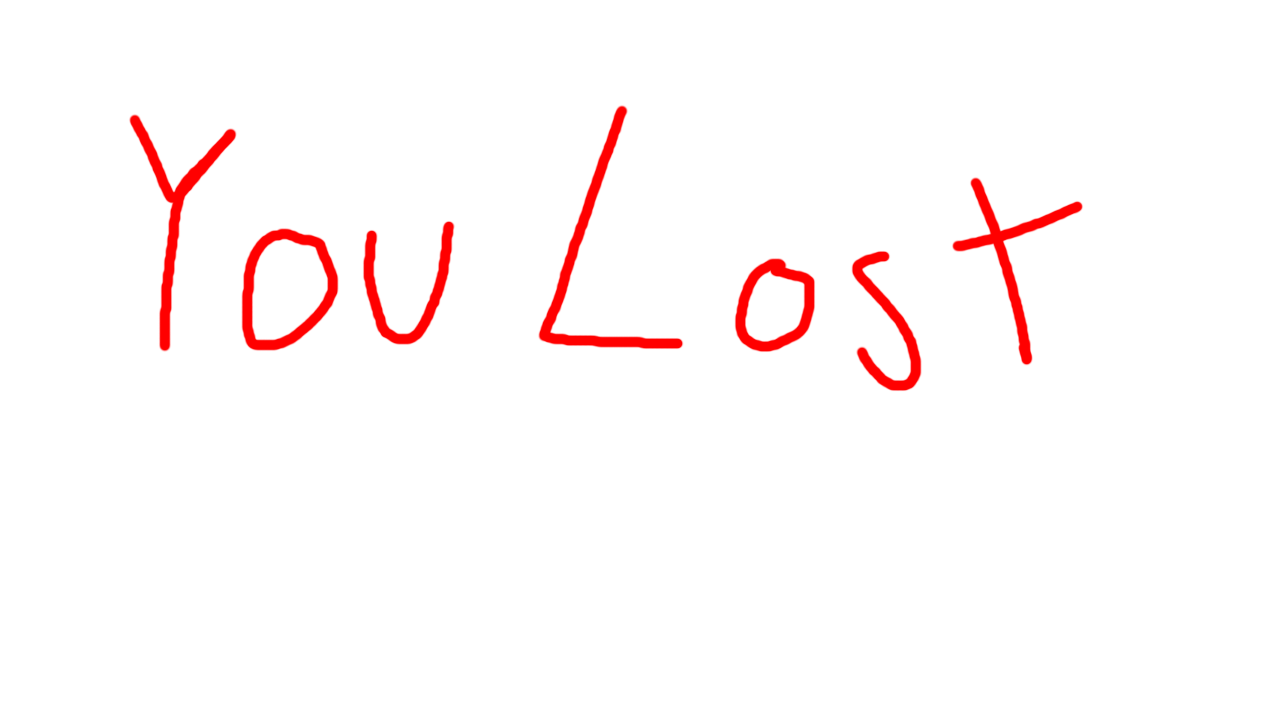
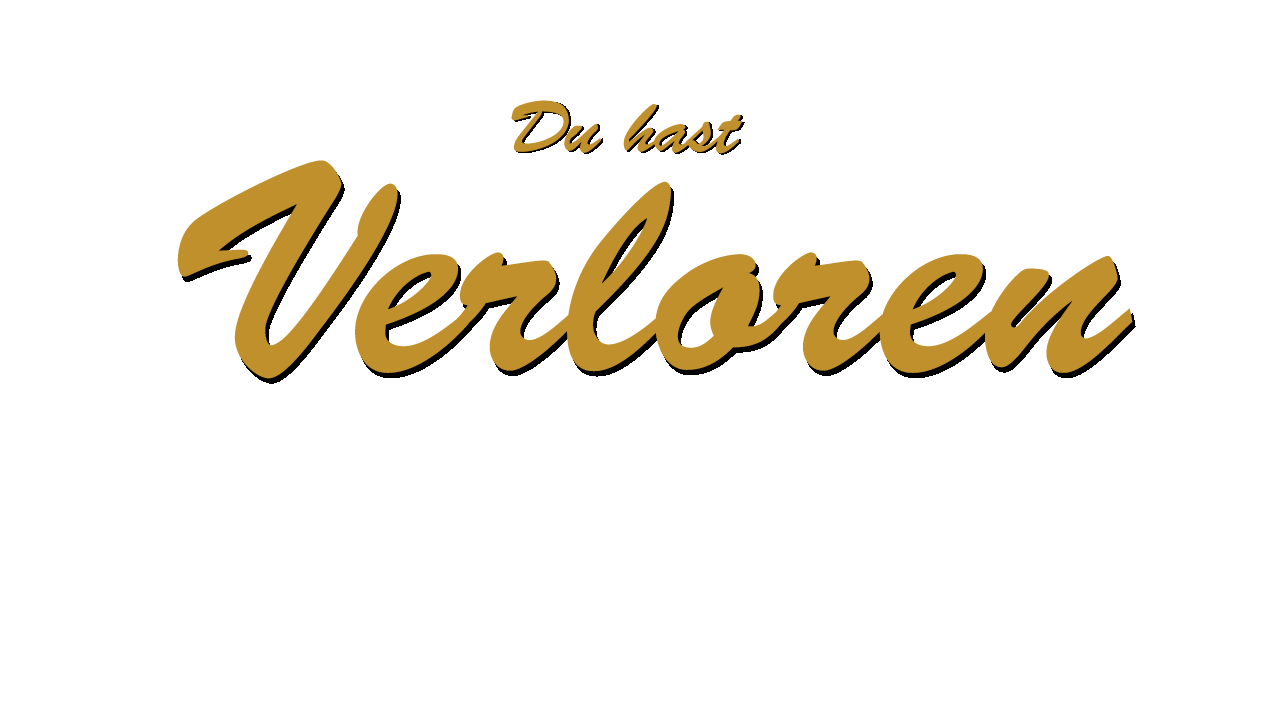
Änderung des Win Loose bildes + einbindung

Changed region(s): [[0.0938, 0.1528, 0.9062, 0.55], [0.375, 0.1222, 0.5938, 0.2444]]

diff --git a/exmatrikulatortd/core/src/main/java/de/diegrafen/exmatrikulatortd/view/screens/GameScreen.java b/exmatrikulatortd/core/src/main/java/de/diegrafen/exmatrikulatortd/view/screens/GameScreen.java
@@ -1010,11 +1010,15 @@ public class GameScreen extends BaseScreen implements GameView {
     public void endOfGameScreen(boolean victorious, int score, int highscore) {
         Group endScreenGroup = new Group();
 
-        Label resultLabel;
+        //Label resultLabel;
+        Image resultImage;
         if (victorious) {
-            resultLabel =  new Label("Gewonnen!", skin);
+            //resultLabel =  new Label("Gewonnen!", skin);
+            resultImage = new Image(new Texture(Gdx.files.internal("win.png")));
         } else {
-            resultLabel =  new Label("Verloren!", skin);
+            //resultLabel =  new Label("Verloren!", skin);
+            resultImage = new Image(new Texture(Gdx.files.internal("loose.png")));
+            //resultLabel.setFontScale(3);
         }
 
         Label currentScoreLabel = new Label("Erzielte Punkte: " + score, skin);
@@ -1032,13 +1036,14 @@ public class GameScreen extends BaseScreen implements GameView {
             }
         });
 
-        buttonTable.add(resultLabel).center().row();
+        //buttonTable.add(resultLabel).center().row();
         buttonTable.add(currentScoreLabel).center().row();
         buttonTable.add(highscoreLabel).center().row();
         buttonTable.add(back2main).top().center().row();
         buttonTable.setSize(getStageViewport().getScreenWidth(), getStageViewport().getScreenHeight() / 2);
 
         endScreenGroup.addActor(background);
+        endScreenGroup.addActor(resultImage);
         endScreenGroup.addActor(buttonTable);
         defaultScreen.setVisible(false);
         getUi().addActor(endScreenGroup);
